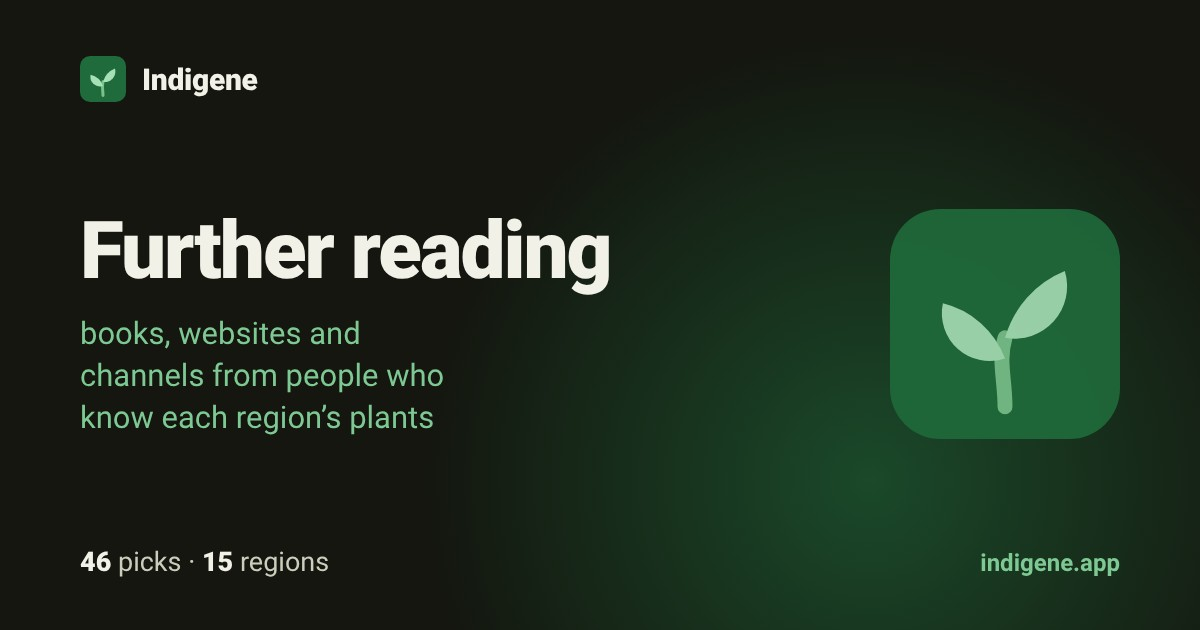
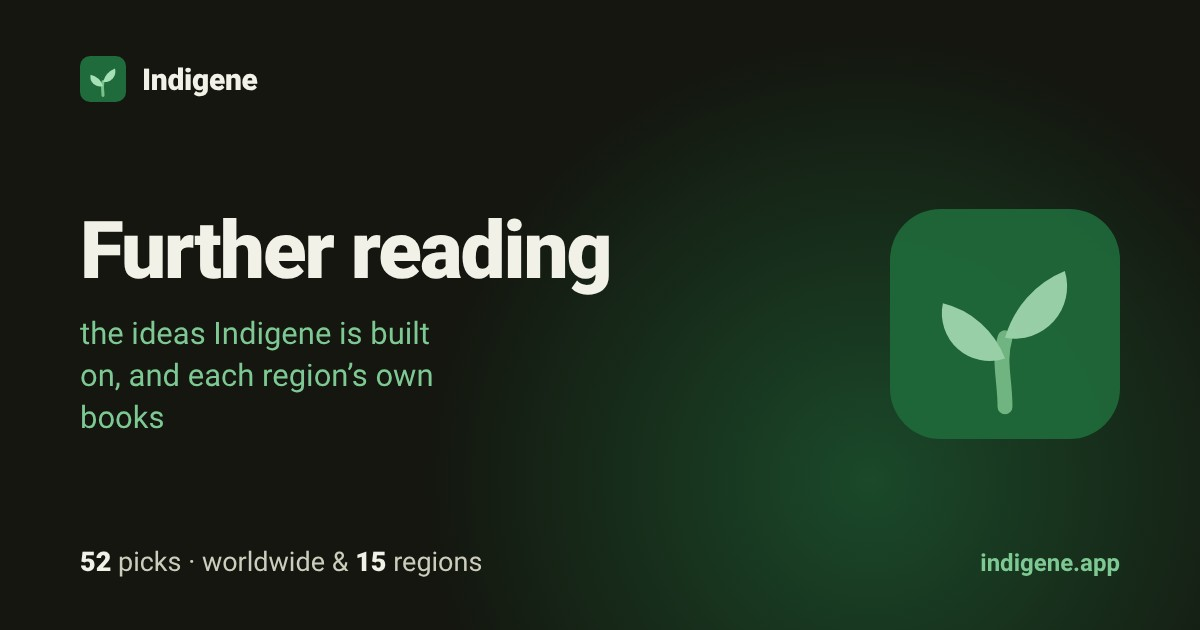
Worldwide reading: the ideas Indigene is built on
Seven picks open #/reading, each with one line (English and French) on
what it gives an Indigene reader: Nature's Best Hope, Homegrown National
Park, Braiding Sweetgrass, The Garden Jungle, Planting in a Post-Wild
World, Where Do Camels Belong? (the skeptic's side, on purpose) and
iNaturalist. The studies stay on the pages that cite them; the list
links there. The test refuses a worldwide pick without its line in both
languages, and fails when one is missing (checked by deleting one).

Claude-Session: https://claude.ai/code/session_01PUzkZuzJCNZT7wD7S6t8bc

Changed region(s): [[0.0617, 0.5127, 0.37, 0.6937], [0.1542, 0.8746, 0.4008, 0.9048], [0.0617, 0.8746, 0.0925, 0.9048]]

diff --git a/app/src/data/reading.ts b/app/src/data/reading.ts
@@ -75,7 +75,7 @@ export interface Reading {
 }
 
 /** Translated via `reading.audience.<unit>`. */
-export type AudienceUnit = "subscribers" | "followers" | "members" | "gardens";
+export type AudienceUnit = "subscribers" | "followers" | "members" | "gardens" | "observers";
 
 // --- Shared picks: one book or site that serves several regions is written
 // once, so its evidence can't drift between copies.
@@ -631,7 +631,90 @@ export const READING: Record<string, Reading[]> = {
  *  is built on — native plants feeding native insects, the lawn we could give
  *  back, and the argument over what "native" should mean. Casual reading
  *  first; the studies themselves are cited on the pages that use them. */
-export const WORLD_READING: Reading[] = [];
+export const WORLD_READING: Reading[] = [
+  {
+    kind: "book",
+    title: "Nature's Best Hope",
+    by: "Douglas W. Tallamy",
+    year: 2020,
+    url: "https://www.hachettebookgroup.com/titles/douglas-w-tallamy/natures-best-hope/9781604699005/",
+    lang: "en",
+    backer: "ecologist",
+    why: "naturesBestHope",
+    vouched: [{ name: "Wild Ones Western Pennsylvania", url: "https://westernpa.wildones.org/reading-list/" }],
+    award: { name: "AHS B.Y. Morrison Communication Award 2018", toAuthor: true },
+  },
+  {
+    kind: "site",
+    title: "Homegrown National Park",
+    by: "Douglas W. Tallamy and Michelle Alfandari",
+    url: "https://homegrownnationalpark.org/",
+    lang: "en",
+    backer: "ecologist",
+    why: "homegrown",
+    vouched: [{ name: "Garden Club of America", url: "https://www.gcamerica.org/news/get/id/3427" }],
+    audience: { count: 52000, unit: "gardens", asOf: "2026-09" },
+  },
+  {
+    kind: "book",
+    title: "Braiding Sweetgrass",
+    by: "Robin Wall Kimmerer",
+    year: 2013,
+    url: "https://milkweed.org/braiding",
+    lang: "en",
+    backer: "botanist",
+    why: "sweetgrass",
+    vouched: [{ name: "Wild Ones Front Range", url: "https://frontrange.wildones.org/resources/book-list/" }],
+    award: { name: "MacArthur Fellowship 2022", toAuthor: true },
+  },
+  {
+    kind: "book",
+    title: "The Garden Jungle",
+    by: "Dave Goulson",
+    year: 2019,
+    url: "https://www.penguin.co.uk/books/439007/the-garden-jungle-by-dave-goulson/9781784709914",
+    lang: "en",
+    backer: "ecologist",
+    why: "gardenJungle",
+    award: { name: "Clarivate Award for Communicating Zoology 2020" },
+  },
+  {
+    kind: "book",
+    title: "Planting in a Post-Wild World",
+    by: "Thomas Rainer and Claudia West",
+    year: 2015,
+    url: "https://www.hachettebookgroup.com/titles/thomas-rainer/planting-in-a-post-wild-world/9781604695533/",
+    lang: "en",
+    backer: "designer",
+    why: "postWild",
+    vouched: [{ name: "Wild Ones Western Pennsylvania", url: "https://westernpa.wildones.org/reading-list/" }],
+    award: { name: "American Horticultural Society Book Award 2016" },
+  },
+  // The other side of the argument, on purpose: the reader-facing version of
+  // Davis et al. 2011, which the Native page cites. A list that only agreed
+  // with us would be the advert that page refuses to be.
+  {
+    kind: "book",
+    title: "Where Do Camels Belong?",
+    by: "Ken Thompson",
+    year: 2014,
+    url: "https://en.wikipedia.org/wiki/Where_Do_Camels_Belong%3F",
+    lang: "en",
+    backer: "ecologist",
+    why: "camels",
+    award: { name: "RHS Veitch Memorial Medal 2016", toAuthor: true },
+  },
+  {
+    kind: "site",
+    title: "iNaturalist",
+    by: "iNaturalist",
+    url: "https://www.inaturalist.org/",
+    lang: "en",
+    backer: "naturalist",
+    why: "inaturalist",
+    audience: { count: 4480726, unit: "observers", asOf: "2026-10-10" },
+  },
+];
 
 /** A region's picks, or an empty list where none are researched yet — which is
  *  a missing section, never a heading over nothing. */

diff --git a/app/src/locales/fr.ts b/app/src/locales/fr.ts
@@ -2743,6 +2743,15 @@ export const fr: Dict = {
   "reading.backToIndex": "Toutes les lectures",
   "reading.worldTitle": "Les idées derrière Indigene",
   "reading.byRegion": "Par région",
+  "reading.why.naturesBestHope": "Pourquoi un jardin de plantes indigènes nourrit les oiseaux qu'une pelouse affame.",
+  "reading.why.homegrown": "Combien de pelouse il y a, et ce que donnerait sa moitié rendue aux plantes indigènes.",
+  "reading.why.sweetgrass": "Une botaniste potawatomi sur les plantes comme parentes, et sur ce que nous devons à la terre.",
+  "reading.why.gardenJungle": "Les insectes déjà dans votre jardin, et les petits gestes qui les y gardent.",
+  "reading.why.postWild": "Planter les indigènes en strates, comme une prairie, pour qu'elles se tiennent.",
+  "reading.why.camels": "Le point de vue sceptique : la plupart des plantes venues d'ailleurs ne nuisent pas, alors jugez-les à ce qu'elles font.",
+  "reading.why.inaturalist": "Photographiez une plante, apprenez son nom et voyez où elle pousse à l'état sauvage près de chez vous.",
+  "reading.audience.observers.one": "{n} observateur",
+  "reading.audience.observers.other": "{n} observateurs",
   "sources.reading": "Plutôt lire que vérifier ? {reading} réunit les livres derrière ces chiffres.",
   "sources.readingLink": "Pour aller plus loin",
   "reading.studies": "Les études derrière nos chiffres sont citées là où nous les utilisons : {native}, {homegrown} et {sources}.",
@@ -2811,6 +2820,7 @@ export const fr: Dict = {
   "emoji.invasive": "envahissante",
   "emoji.place": "lieu",
   "emoji.reading": "lectures",
+  "emoji.worldwide": "monde entier",
   "emoji.video": "vidéo",
   "emoji.map": "carte",
   "emoji.sun": "soleil",

diff --git a/app/src/locales/en.ts b/app/src/locales/en.ts
@@ -2771,6 +2771,15 @@ export const en = {
   "reading.backToIndex": "All reading",
   "reading.worldTitle": "The ideas behind Indigene",
   "reading.byRegion": "By region",
+  "reading.why.naturesBestHope": "Why a garden of native plants feeds the birds a lawn starves.",
+  "reading.why.homegrown": "How much lawn there is, and what turning half of it native would add up to.",
+  "reading.why.sweetgrass": "A Potawatomi botanist on plants as relatives, and on what we owe the land.",
+  "reading.why.gardenJungle": "The insects already in your garden, and the small changes that keep them there.",
+  "reading.why.postWild": "How to plant natives in layers, like a meadow, so they hold together.",
+  "reading.why.camels": "The skeptic's case: most plants from elsewhere do no harm, so judge them by what they do.",
+  "reading.why.inaturalist": "Photograph a plant, learn its name, and see where it grows wild near you.",
+  "reading.audience.observers.one": "{n} observer",
+  "reading.audience.observers.other": "{n} observers",
   "sources.reading": "Rather read than audit? {reading} gathers the books behind these numbers.",
   "sources.readingLink": "Further reading",
   "reading.studies": "The studies behind our numbers are cited where we use them: {native}, {homegrown} and {sources}.",
@@ -2839,6 +2848,7 @@ export const en = {
   "emoji.invasive": "invasive",
   "emoji.place": "place",
   "emoji.reading": "reading",
+  "emoji.worldwide": "worldwide",
   "emoji.video": "video",
   "emoji.map": "map",
   "emoji.sun": "sun",

diff --git a/app/src/lib/emoji.ts b/app/src/lib/emoji.ts
@@ -72,6 +72,7 @@ const MEANING: Record<string, TKey> = {
   "🚩": "emoji.invasive",
   "📍": "emoji.place",
   "📚": "emoji.reading",
+  "🌍": "emoji.worldwide",
   "▶": "emoji.video",
   "🗺": "emoji.map",
   "☀": "emoji.sun",

diff --git a/docs/outreach/further-reading.md b/docs/outreach/further-reading.md
@@ -80,6 +80,32 @@ browser.
   would break the second test. Theodore Payne and Wild Ones run channels; add
   them when their counts are confirmed.
 
+## Worldwide: the ideas behind Indigene
+
+`WORLD_READING` opens `#/reading`. It is for casual reading. The studies stay
+on the pages that cite them (Native, Homegrown, Sources), and the list links
+there. Each pick carries one line, in both languages, on what it gives an
+Indigene reader. The test refuses a pick without one.
+
+| Pick | Evidence |
+|---|---|
+| Tallamy, *Nature's Best Hope* | Wild Ones Western PA reading list; AHS B.Y. Morrison Award (author) |
+| Homegrown National Park | Garden Club of America; 52,000 registered gardens (Sept 2026) |
+| Kimmerer, *Braiding Sweetgrass* | Wild Ones Front Range; MacArthur Fellowship (author); 2M+ copies, 20 languages |
+| Goulson, *The Garden Jungle* | Clarivate Award for Communicating Zoology 2020 |
+| Rainer & West, *Planting in a Post-Wild World* | AHS Book Award 2016; Wild Ones Western PA |
+| Thompson, *Where Do Camels Belong?* | RHS Veitch Medal (author). The skeptic's side, on purpose |
+| iNaturalist | 4.48M observers (its own API, 2026-10-10) |
+
+Turned away for the worldwide list: *Wilding* (shortlisted, not awarded; the
+children's edition won), Tassin's *La grande invasion* (its only evidence is a
+critical review, and the Native page already cites it), GBIF (a data portal
+rather than reading, and on the Sources page), Kew's Plants of the World Online
+(no evidence of use found), Tallamy's *The Nature of Oaks* and Xerces'
+*Attracting Native Pollinators* (North America only), and Pollan's "Against
+Nativism" (it treats native gardening itself as suspect). There is no French
+pick yet. Videos are missing for want of a view count we could verify.
+
 ## Turned away
 
 | Candidate | Reason |

diff --git a/changelog.d/further-reading.md b/changelog.d/further-reading.md
@@ -1,4 +1,5 @@
 ### Added
 
 - [Further reading](https://indigene.app/reading): books, websites and a TV series for each region, chosen because an expert stands behind each one and a local society, garden or extension service recommends it.
+- [Further reading](https://indigene.app/reading) opens with the ideas Indigene is built on: Tallamy's *Nature's Best Hope*, Kimmerer's *Braiding Sweetgrass*, and a skeptic's book, so both sides of the native debate are there.
 - Internal: `src/data/reading.ts` holds the picks with their evidence; `reading.test.ts` refuses a pick with no recommendation, award, editions or audience. `npm run reading:check` and the Reading links workflow ask every link. Research and rejections: `docs/outreach/further-reading.md`.
